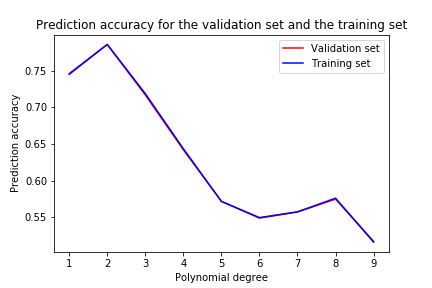
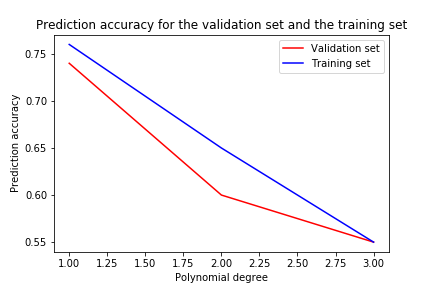
Fonctions pour faire la cross validation et plot le résultat

diff --git a/helpers.py b/helpers.py
@@ -2,6 +2,7 @@
 """some helper functions."""
 import numpy as np
 import csv
+import matplotlib.pyplot as plt
 
 
 def load_data(filename):
@@ -116,4 +117,31 @@ def create_csv_submission(ids, y_pred, name):
         writer.writeheader()
         for r1, r2 in zip(ids, y_pred):
             writer.writerow({'Id':int(r1),'Prediction':int(r2)})
+            
+def validation_polynomials(y, tx, degree):
+    """Make a plot of the validation and train set accuracy for each degree"""
+    
+    accuracy_test = np.zeros((degree,1))
+    accuracy_train = np.zeros((degree,1))
+    for degree in range(1,degree + 1):
+        tx_ = build_poly_all_features(tx, degree)
+        for pos in range(1,11):
+            x_train, y_train, x_test, y_test = k_fold_cross_validation(tx_, y, 10, pos)
+            w = logistic_regression4(y_train, x_train, np.zeros((1 + degree*30,)), 500001, 0.05)
+            y_pred_test = sigmoid(np.dot(x_test, w[0]))
+            y_pred_train = sigmoid(np.dot(x_train, w[0]))
+            accuracy_test[degree - 1,0] += prediction_accuracy(y_test, y_pred_test)/10
+            accuracy_train[degree - 1, 0] += prediction_accuracy(y_train, y_pred_train)/10
+    return accuracy_train, accuracy_test
+
+def plot_polynomials(accuracy_train, accuracy_test, degree):
+    polynomials = np.linspace(1,degree,degree)
+    plt.plot(polynomials, accuracy_test, 'r', label = 'Validation set')
+    plt.plot(polynomials, accuracy_train, 'b', label = 'Training set')
+    plt.ylabel('Prediction accuracy')
+    plt.xlabel('Polynomial degree')
+    plt.legend()
+    plt.title('Prediction accuracy for the validation set and the training set')
+    plt.savefig('polynoms with validation and training set')
+    plt.show
           
